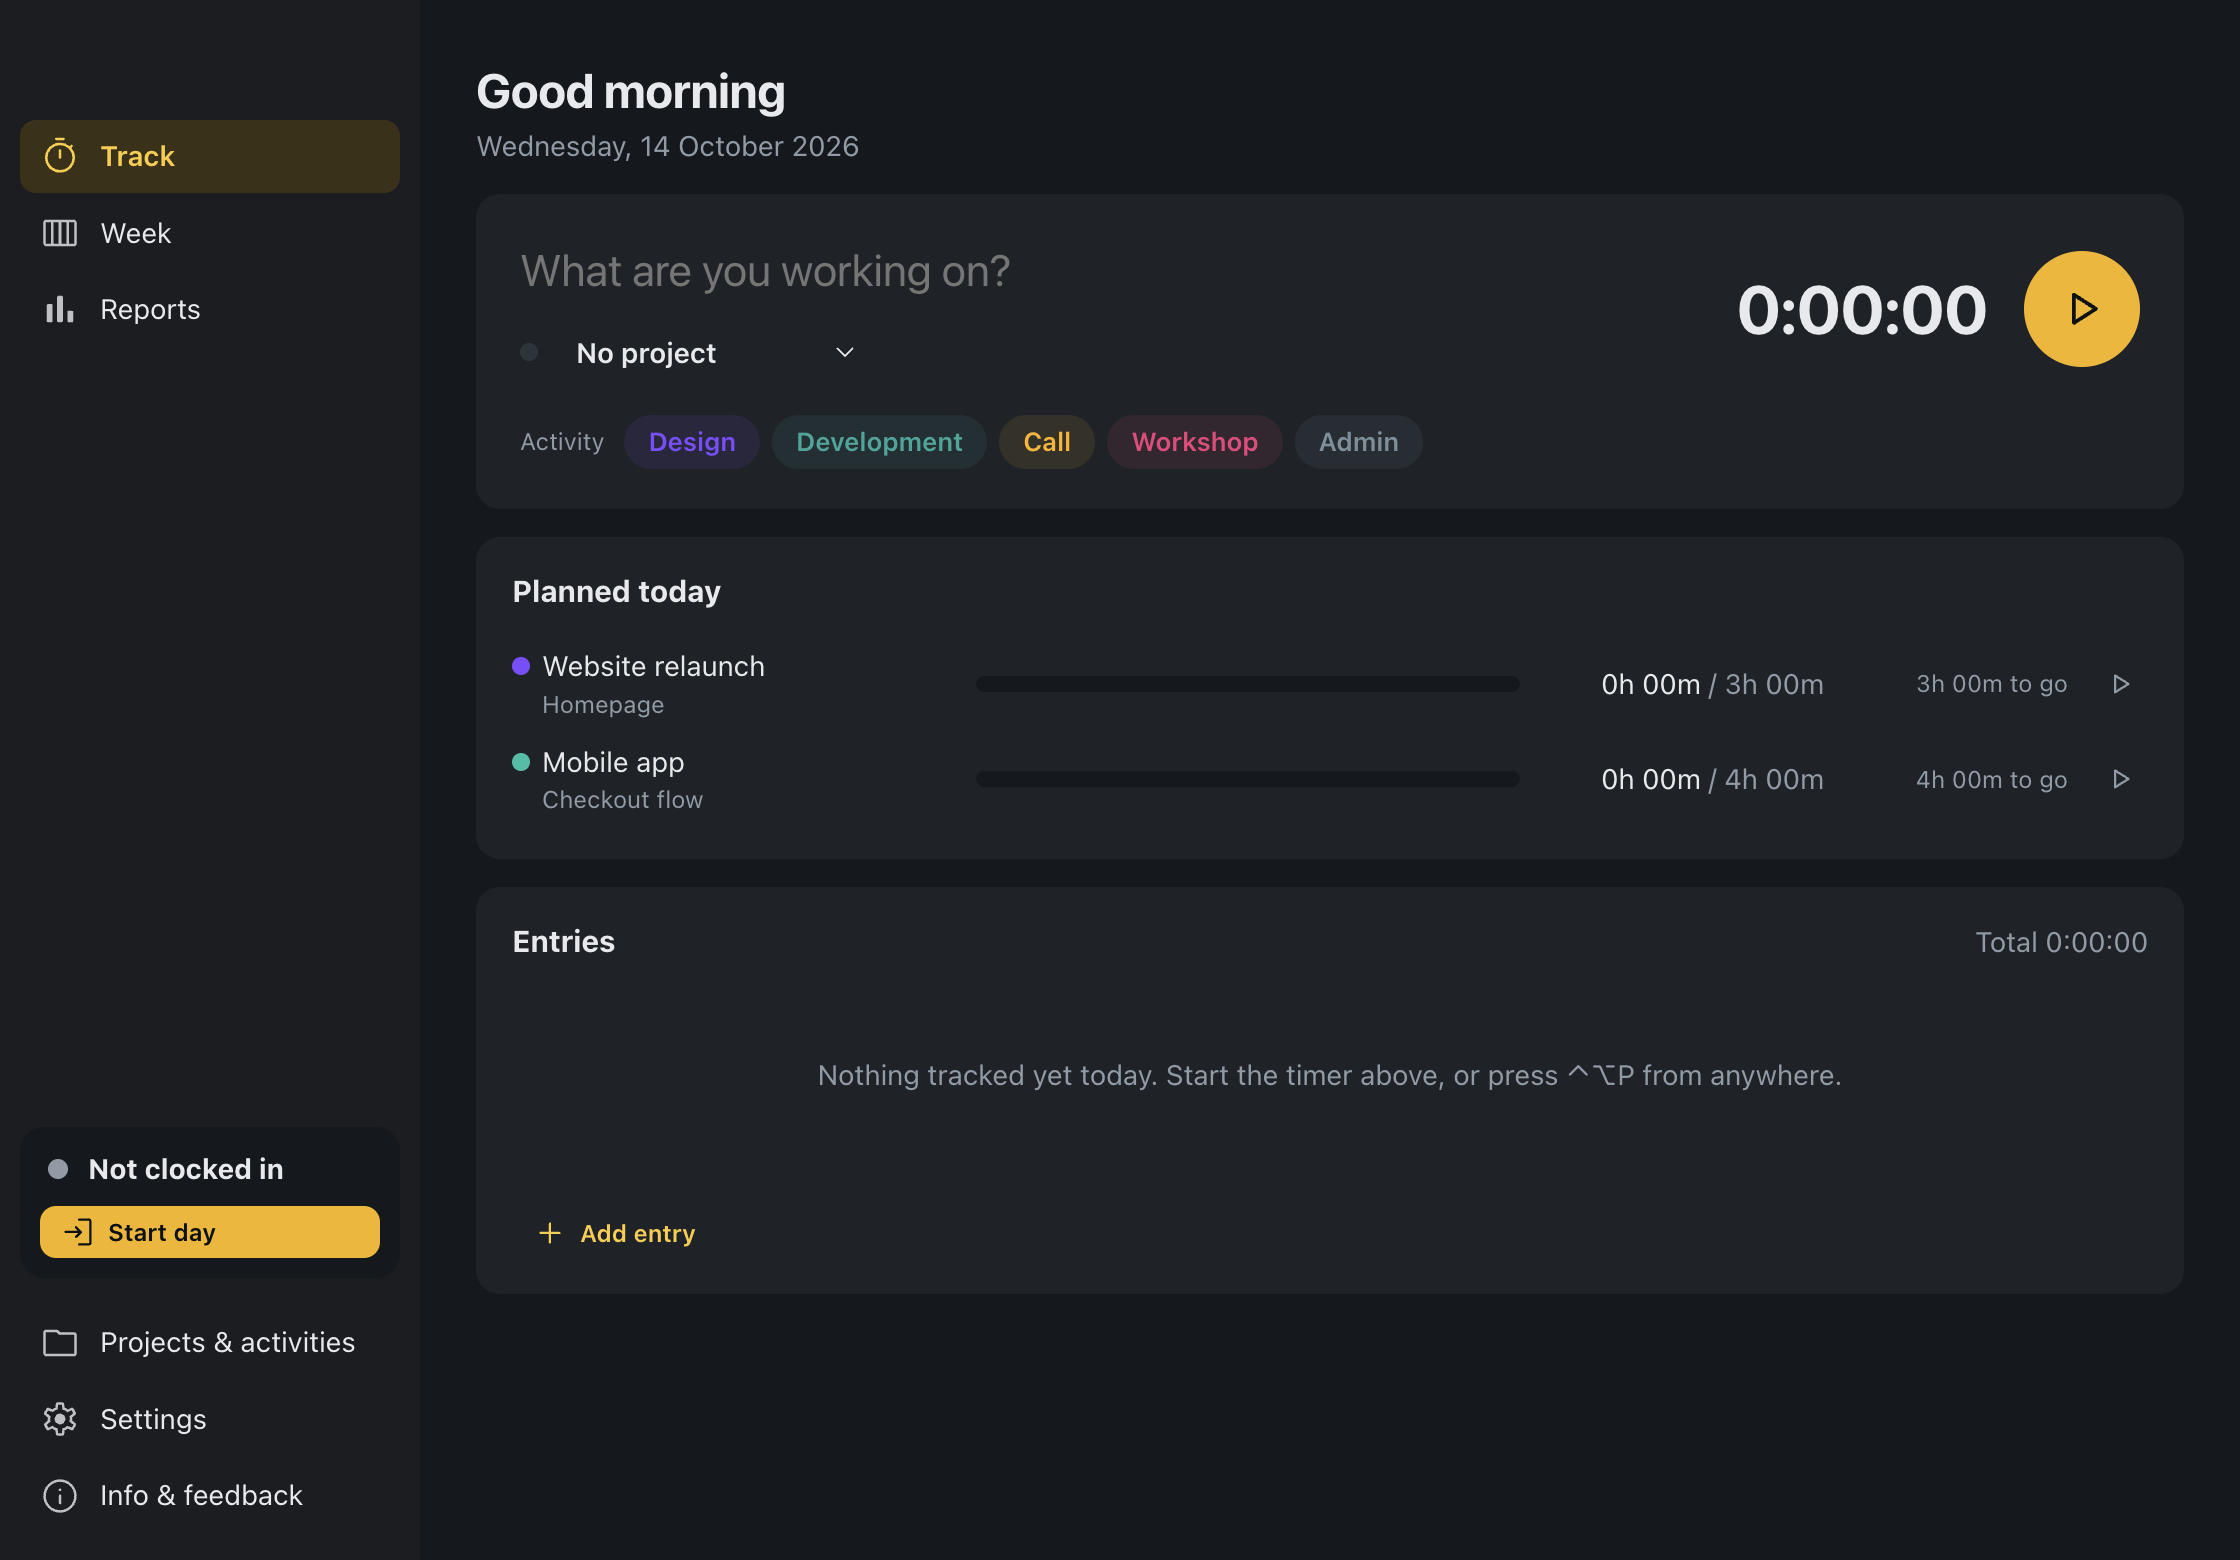
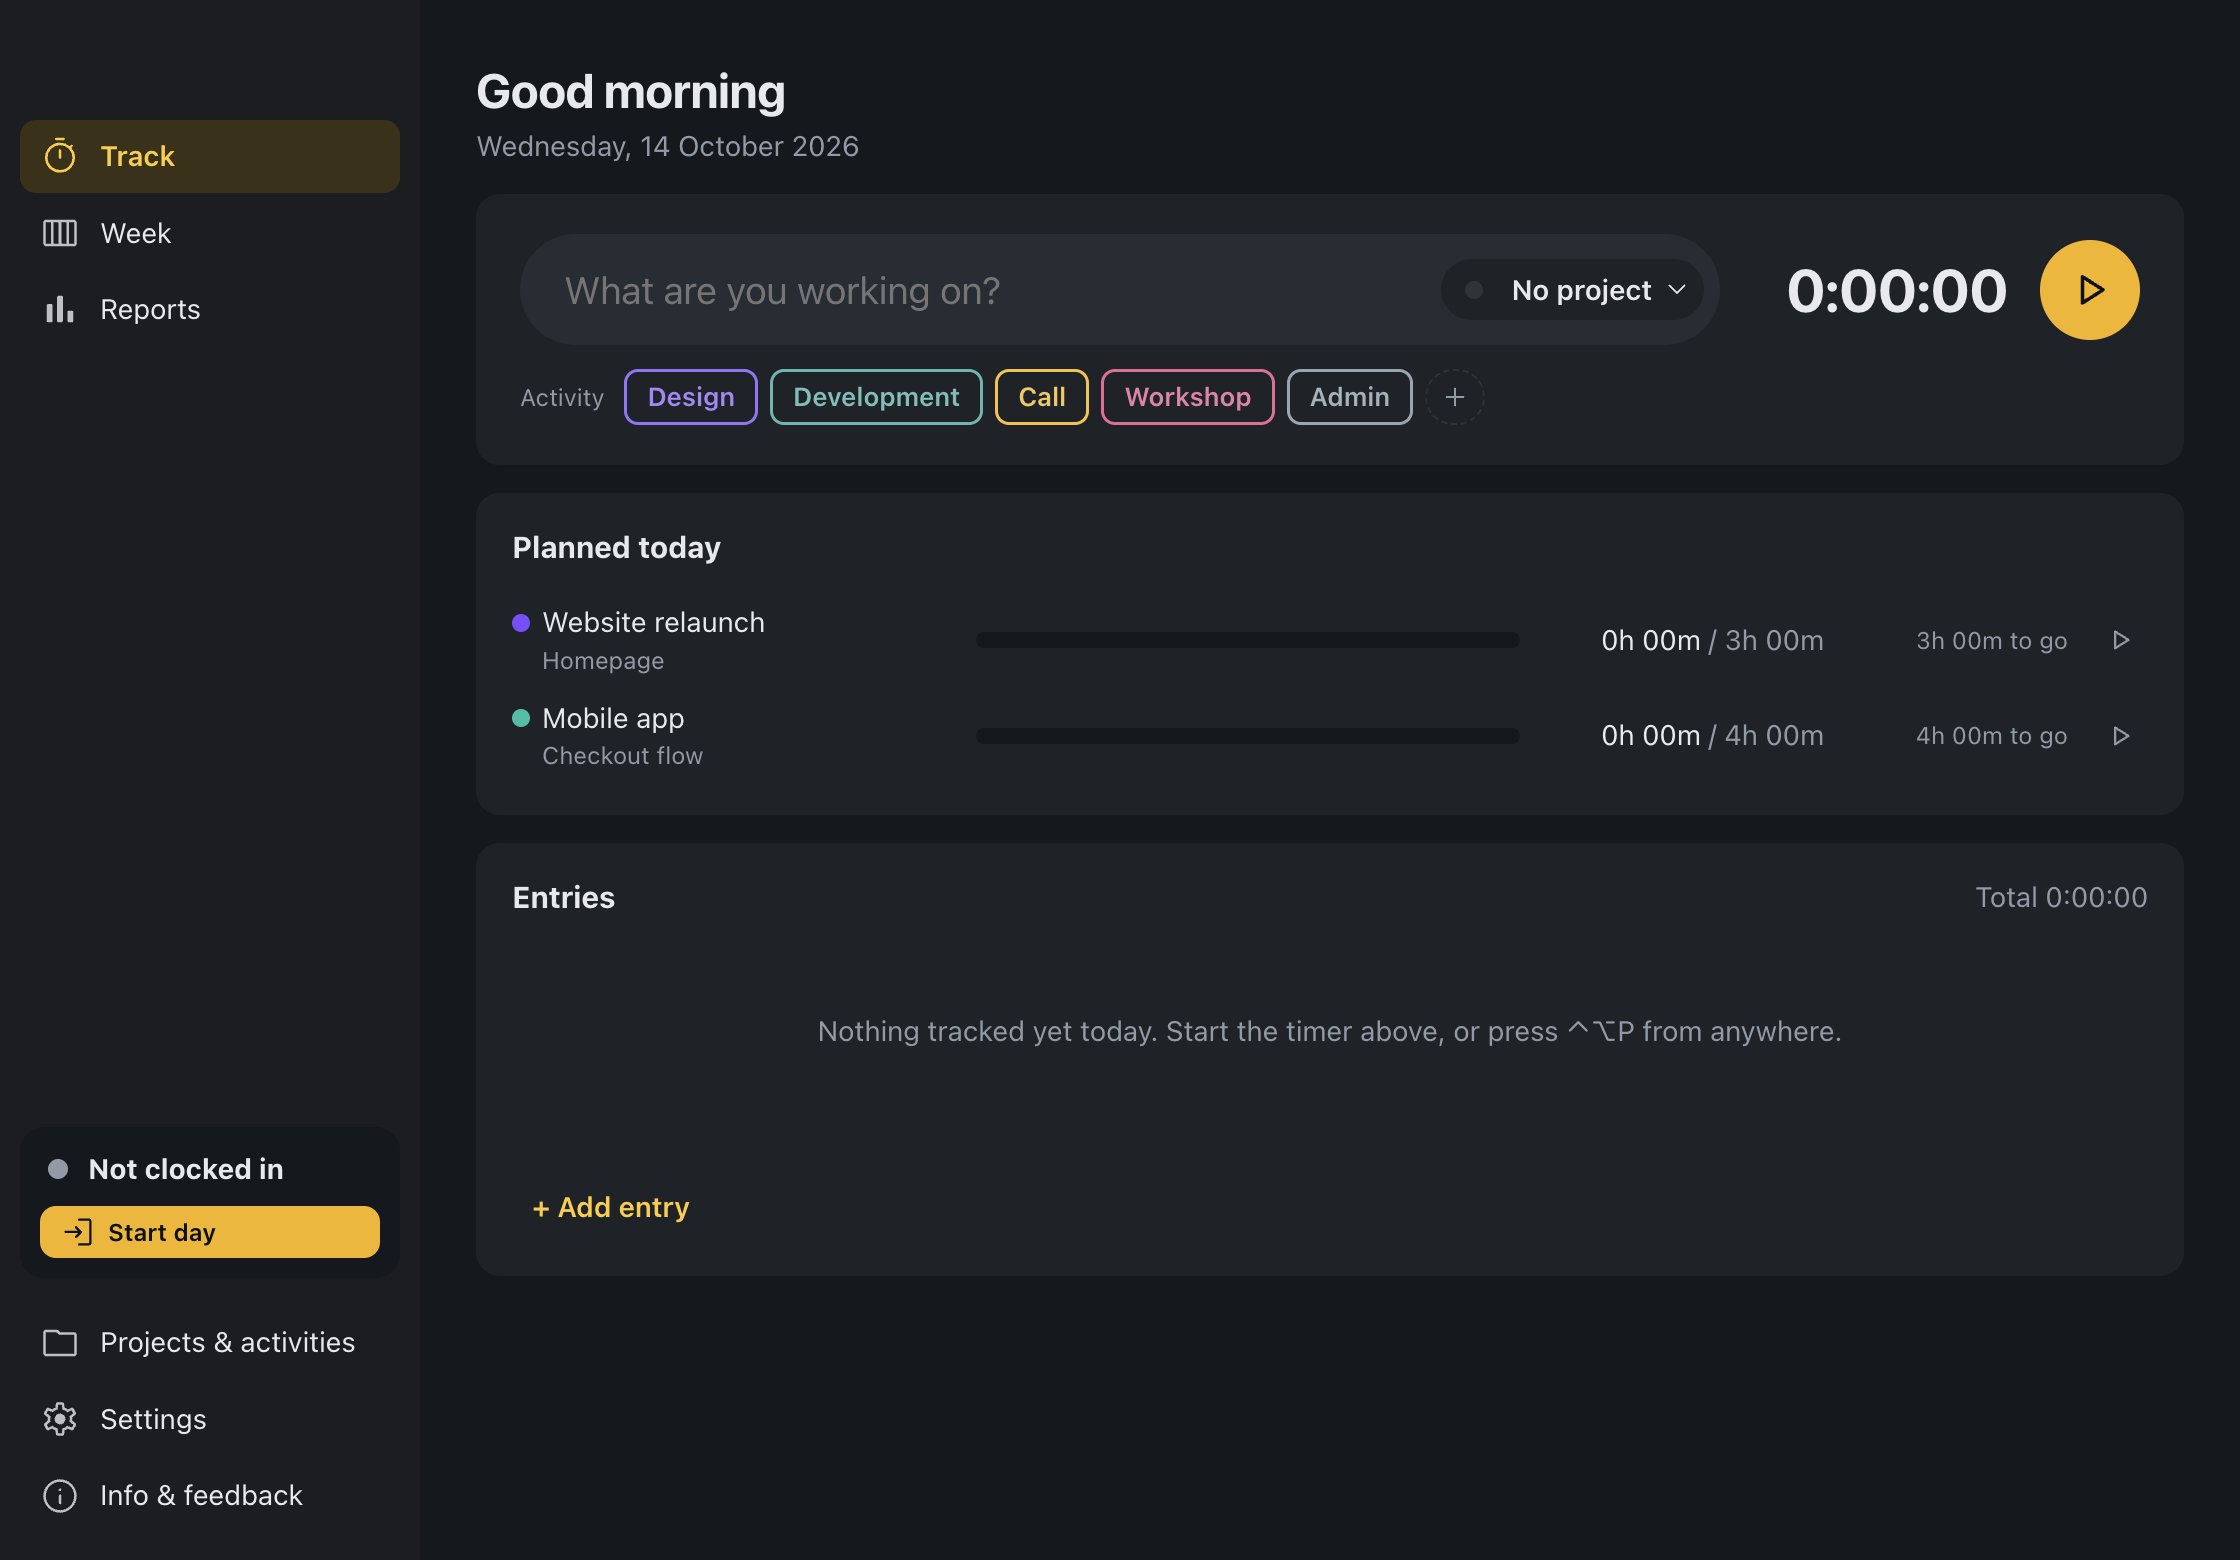
README: fresh pictures of the current app and the morning welcome
Retaken screenshots and close-ups (the intro's copies too), a new close-up of the morning
welcome, and NO_WELCOME=1 in scripts/screenshots.sh for the picture behind the Start day close-up.

diff --git a/README.md b/README.md
@@ -45,6 +45,13 @@ Gnomon asks on the first start which one sounds like you, and opens on the page 
 
 ## What you get
 
+### A good start to the day
+
+The first time you open Gnomon on a workday, a short sunrise greets you by name, with a line from a Greek philosopher.
+One click starts the day; if you track live, the tracker is right there with today's first planned task.
+
+<img src="docs/hero/hero-welcome.jpg" width="880" alt="The morning welcome: a greeting, a quote and Start the day">
+
 ### Clock in and out in a click
 
 Start, pause and end your day from the sidebar, the menu bar or a keyboard shortcut. Forgot to clock out? Gnomon
